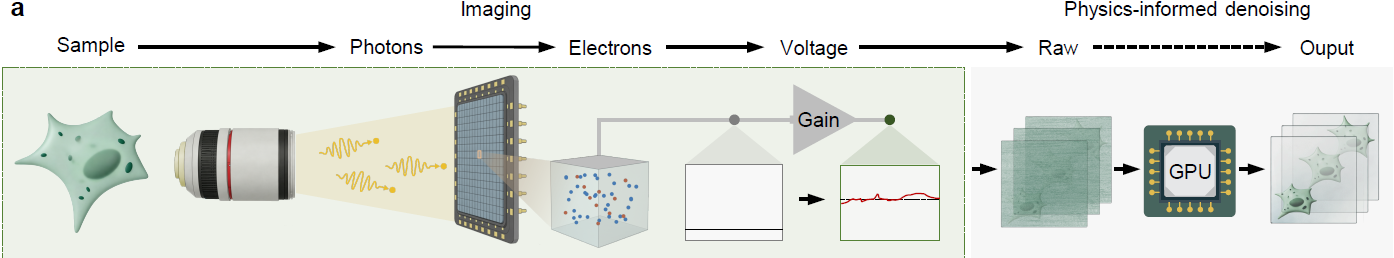
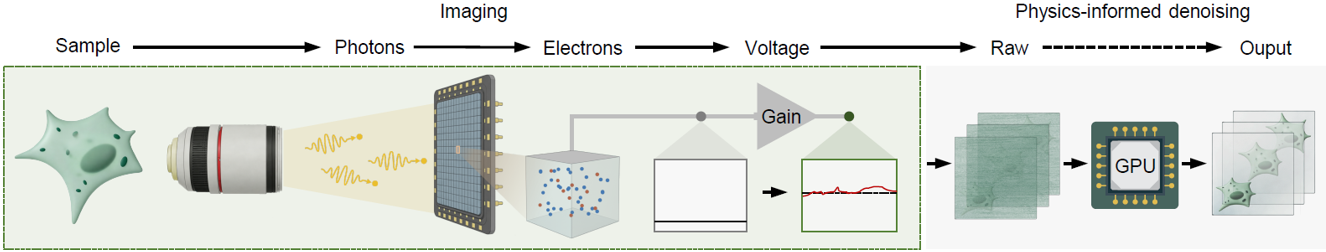
README

diff --git a/README.md b/README.md
@@ -28,10 +28,8 @@ Fluorescence microscopy is fundamentally limited by noise, which compromises ima
 We demonstrate the superiority of DeepPhD on various imaging modalities and biological processes, including **light-sheet imaging of GABAergic neurons in larval zebrafish**, **widefield neural imaging of freely behaving mice**, and **multiphoton imaging of immune cell migration**. DeepPhD extends the performance and interpretability of fluorescence image denoising and facilitates reliable biological observation under photon-limited conditions.
 
 
-## Repository Layout
-
 <details>
-<summary>Show directory tree</summary>
+<summary><h2>Repository Layout</h2></summary>
 
 ```text
 DeepPhD/
